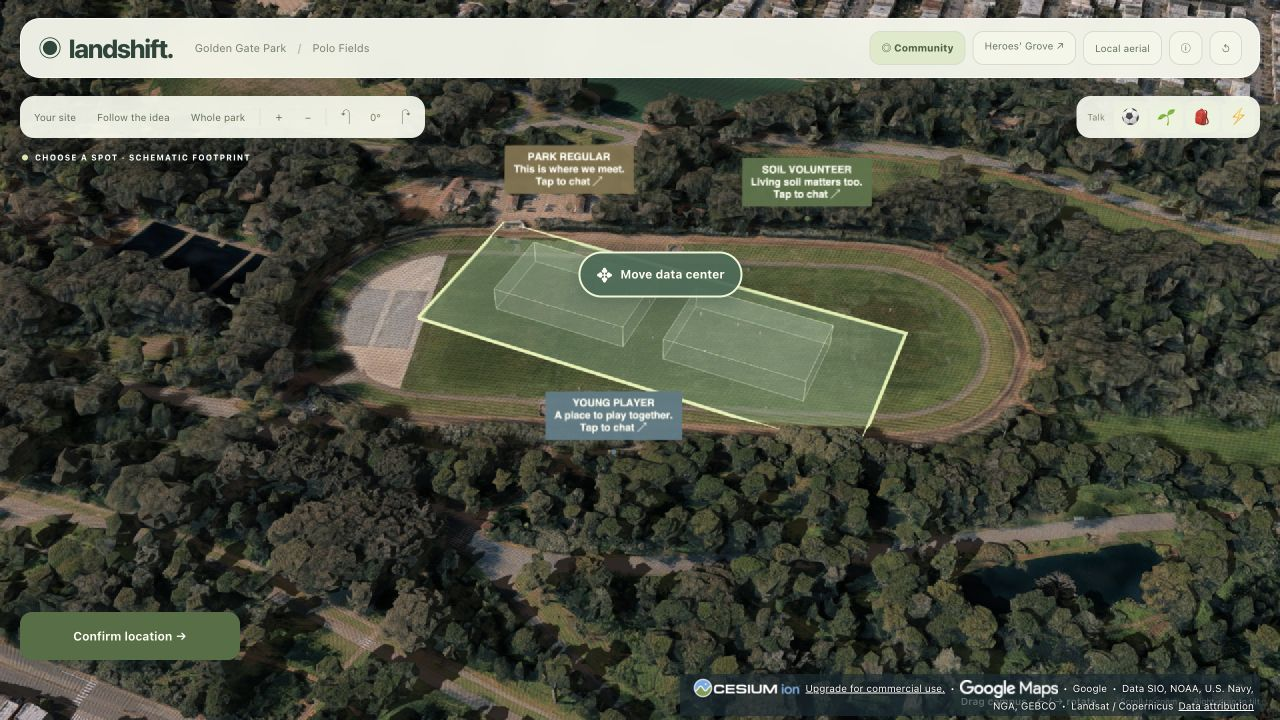
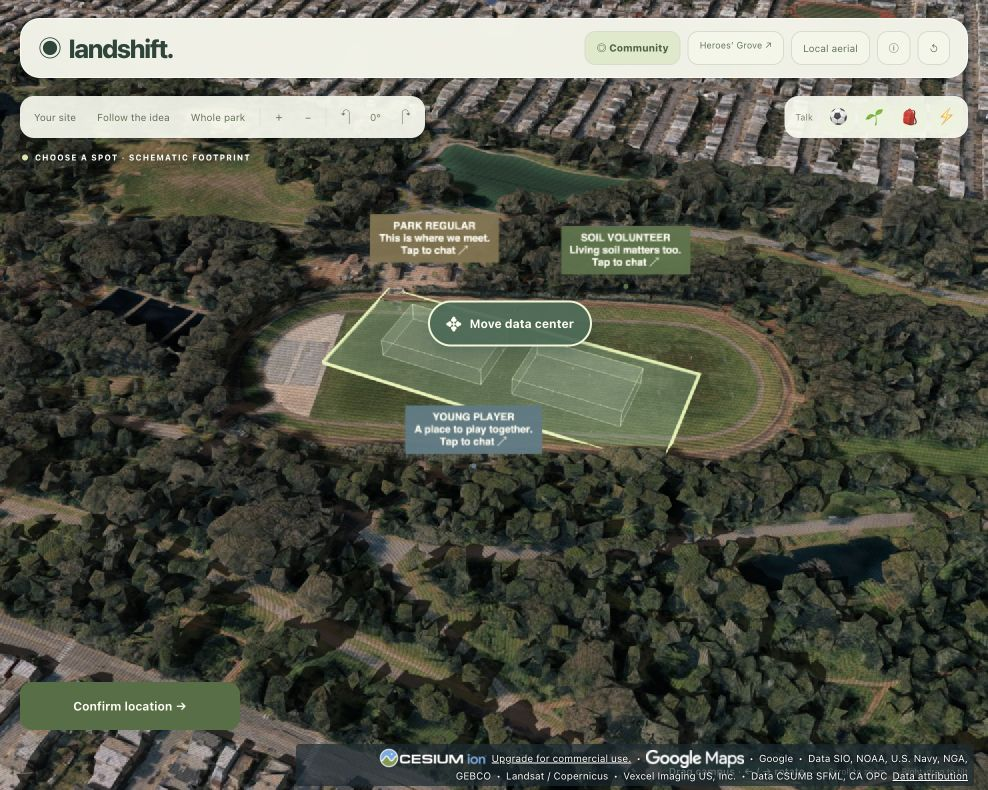
Remove dashed outlines from the Polo Fields demo

diff --git a/src/game/polo/scene.ts b/src/game/polo/scene.ts
@@ -51,7 +51,7 @@ import { createLocalTerrain, sampleElevation } from '../terrain.ts'
 import type { ElevationGrid } from '../terrain.ts'
 import { INITIAL_POLO_STATE, POLO_CENTER } from './model.ts'
 import type { PoloSceneState } from './model.ts'
-import { poloPlacementValid, POLO_FIELD_ENVELOPE } from './placement.ts'
+import { poloPlacementValid } from './placement.ts'
 import {
   activePoloProposal,
   pointOnPath,
@@ -670,17 +670,6 @@ export class PoloScene {
         true,
       )
   }
-  private fieldGuide(): void {
-    const oval = Array.from({ length: 65 }, (_, index): LocalPoint => {
-      const angle = (index * Math.PI * 2) / 64
-      return [
-        Math.cos(angle) * POLO_FIELD_ENVELOPE.eastRadius,
-        Math.sin(angle) * POLO_FIELD_ENVELOPE.northRadius,
-        1.4,
-      ]
-    })
-    this.path(oval, '#d5eab1', 3, true, true)
-  }
   private placementScene(): void {
     this.box(
       0,
@@ -1287,7 +1276,6 @@ export class PoloScene {
     this.draggableEntities.clear()
     this.localAnchors.clear()
     this.placementHandle.hidden = false
-    this.fieldGuide()
     if (!this.state.confirmed) {
       this.placementScene()
       this.fieldActivity()
@@ -1316,18 +1304,6 @@ export class PoloScene {
         0.15,
         phase === 'M2' ? PALETTE.soil : PALETTE.compacted,
       )
-    this.path(
-      [
-        [-160, -62.5, 1],
-        [160, -62.5, 1],
-        [160, 62.5, 1],
-        [-160, 62.5, 1],
-        [-160, -62.5, 1],
-      ],
-      '#f3efcf',
-      2,
-      true,
-    )
     if (phase === 'M0') {
       this.path(
         [

diff --git a/src/game/polo/placement.ts b/src/game/polo/placement.ts
@@ -2,12 +2,6 @@ import type { LngLat } from '../geometry.ts'
 import { INITIAL_POLO_STATE, POLO_CENTER } from './model.ts'
 import type { PoloPhase, PoloSceneState } from './model.ts'
 
-// Visual field guide only: the player may move freely and chooses the field for the demo.
-export const POLO_FIELD_ENVELOPE = {
-  eastRadius: 260,
-  northRadius: 105,
-} as const
-
 export function poloPlacementValid(center: LngLat): boolean {
   return (
     center.every(Number.isFinite) &&

diff --git a/docs/polo-demo.md b/docs/polo-demo.md
@@ -25,7 +25,7 @@ The old four-change catalogue is historical and is not loaded by this applicatio
 
 ## Interaction and visual concepts
 
-The player first positions a translucent campus directly on the map. The placement view shows the campus and a compact Confirm location button, without an introductory card. The field outline is a visual guide, not a movement restriction. Grab the campus itself or its green handle and drag; with it focused, use Left/Right arrows to rotate (Shift uses a finer step). The small rotate buttons provide an alternative. **Confirm location** locks the candidate and opens the timeline at Today. Until then, phases and research figures stay hidden and the server rejects requests to advance an unconfirmed plan.
+The player first positions a translucent campus directly on the map. The placement view shows the campus and a compact Confirm location button, without an introductory card. Grab the campus itself or its green handle and drag; with it focused, use Left/Right arrows to rotate (Shift uses a finer step). The small rotate buttons provide an alternative. **Confirm location** locks the candidate and opens the timeline at Today. Until then, phases and research figures stay hidden and the server rejects requests to advance an unconfirmed plan.
 
 After confirmation the player chooses when to advance through seven states: Today, stripping, grading, compaction, construction, opening and operation. All stages, proposal comparisons and replays preserve the selected center and orientation. The campus can still be moved or rotated during any phase without rewinding or reconfirming. Move campus focuses the handle; restarting returns to the default unconfirmed candidate. Each state replaces the previous one; replay and skip never accumulate resource consumption. Orbit, zoom, whole-park framing, baseline rain and evidence remain available.
 
